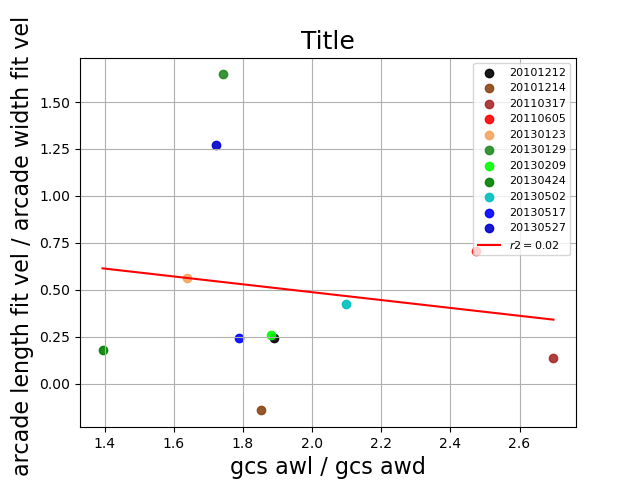
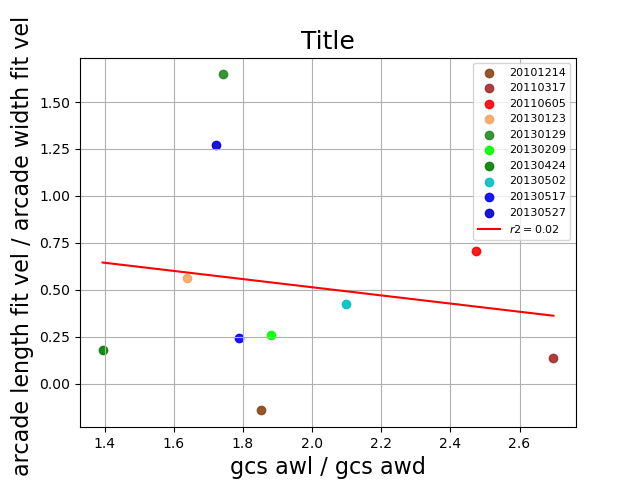
Diego added functionality for custom plots by Hebe

diff --git a/tools/cremades/compare_all_prop_hebe.py b/tools/cremades/compare_all_prop_hebe.py
@@ -54,6 +54,7 @@ def drop_by_index(lista_original,indices_to_drop):
 local_path = os.getcwd()
 repo_path = local_path # os.path.dirname(os.path.dirname(local_path))
 opath = repo_path + '/output_data/compare_all_prop'
+hpath = repo_path + '/output_data/compare_all_prop_hebe'
 
 # filaments data (fil)
 fil_file = repo_path + '/output_data/filaments.csv'
@@ -115,13 +116,13 @@ plot_tilt = False
 gcs_lat_axial_ratio_vs_length_over_width_fit_vel = True
 gcs_awl_awd_ratio_vs_length_width_fit_vel_ratio = True
 gcs_awl_vs_length_fit_vel = True
-gcs_awd_vs_width_fit_vel = True
+pea_sep_speed_vs_gcs_awd = True
 #lista de CMEs que no deben plotearse
 #poner el numero de ID
 #Si no queremos rechazar ninguna, poner --> None
 list_rejected_cmes_id = None 
 #por ejemplo si quiero quitar el evento 1
-#list_rejected_cmes_id = [0]
+list_rejected_cmes_id = [0]
 
 #Mas colores en https://i.stack.imgur.com/nCk6u.jpg
 
@@ -317,14 +318,14 @@ if gcs_awl_vs_length_fit_vel:
     plt.close()
 
 #------------------------------------------------------------------------------------------------------
-# plots gcs awd VS arcade width fit for each date
-if gcs_awd_vs_width_fit_vel:
-    ajuste_lineal2 = True
+# plots gcs awd VS arcade width fit for each date ---> listo hebe
+if pea_sep_speed_vs_gcs_awd:
+    ajuste_lineal2 = False
 
     df_ar['datetimes'] = pd.to_datetime(df_ar['Date'], format='%d/%m/%Y')
     all_x=[]
     all_y=[]
-    colors = ['k','saddlebrown','brown','r','sandybrown','forestgreen','lime','g','c','b','mediumblue','midnightblue']
+    colors = ['k','saddlebrown','brown','r','sandybrown','darkkhaki','lawngreen','mediumspringgreen','mediumturquoise','royalblue','b','mediumblue']
     labels = ['20101212','20101214','20110317','20110605','20130123','20130129','20130209','20130424','20130502','20130517','20130527','20130608']
     for d in df_ar['datetimes']:
         d_str = d.strftime('%Y%m%d')
@@ -356,18 +357,18 @@ if gcs_awd_vs_width_fit_vel:
 
     fig,ax = plt.subplots()
     #ejes y titulo
-    ax.set_xlabel('gcs awd', fontsize=16)
-    ax.set_ylabel('arcade width fit vel [km/s]', fontsize=16)
-    ax.set_title('Title', fontsize=18)
+    ax.set_xlabel('GCS AW$_D$', fontsize=14)
+    ax.set_ylabel('PEA separation speed [km s$^{-1}$]', fontsize=14)
+    ax.set_title('', fontsize=18)
     for contador in range(len(all_x_filtered)):
         ax.scatter(all_x_filtered[contador],all_y_filtered[contador],c=colors_filtered[contador],label=labels_filtered[contador],alpha=0.9)
 
     if ajuste_lineal2:
         x_axis = np.linspace(np.min(all_x_filtered),np.max(all_x_filtered),10)
         ax.plot(x_axis, intercept + slope*x_axis, 'r', label=f'$r2 = {r_square:.2f}$')
-    ax.legend(loc="upper right", prop={'size': 8})
+    ax.legend(loc="lower right", prop={'size': 8})
     ax.grid(True)
-    plt.savefig(opath+'/gcs_awd_vs_width_fit_vel.png')
+    plt.savefig(hpath+'/pea_sep_speed_vs_gcs_awd.png')
     plt.close()
 
 #------------------------------------------------------------------------------------------------------
